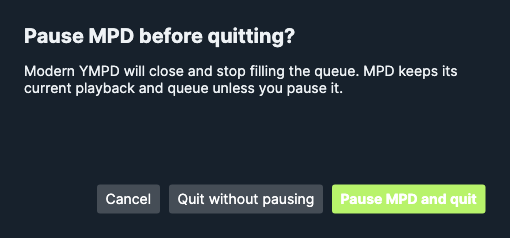
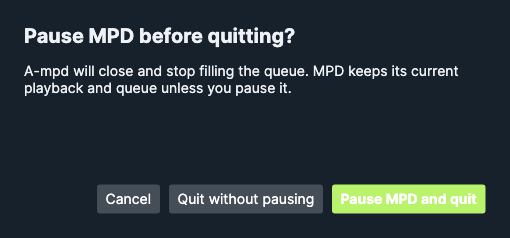
Add 200-track fill, rename app to A-mpd and unify controls

Changed region(s): [[0.0294, 0.2647, 0.9118, 0.4118]]

diff --git a/ModernYmpd/MainWindow.axaml.cs b/ModernYmpd/MainWindow.axaml.cs
@@ -77,8 +77,13 @@ public partial class MainWindow : Window, INotifyPropertyChanged
     private string bitrateText = "";
     public string BitrateText { get => bitrateText; private set { Set(ref bitrateText, value); Notify(nameof(HasBitrate)); } }
     public bool HasBitrate => !string.IsNullOrEmpty(BitrateText);
-    private string playPauseIcon = "▶";
-    public string PlayPauseIcon { get => playPauseIcon; private set => Set(ref playPauseIcon, value); }
+    private bool isPlaying;
+    public bool IsPlaying
+    {
+        get => isPlaying;
+        private set { Set(ref isPlaying, value); Notify(nameof(IsNotPlaying)); }
+    }
+    public bool IsNotPlaying => !IsPlaying;
     private string elapsedText = "0:00";
     public string ElapsedText { get => elapsedText; private set => Set(ref elapsedText, value); }
     private string durationText = "0:00";
@@ -204,21 +209,28 @@ public partial class MainWindow : Window, INotifyPropertyChanged
         var menu = new NativeMenu();
         menu.Items.Add(view);
         menu.Items.Add(playback);
-        var aboutMenu = new NativeMenuItem("About modern ympd") { Menu = new NativeMenu() };
-        var about = new NativeMenuItem("About modern ympd…");
-        about.Click += async (_, _) =>
+        var aboutMenu = new NativeMenuItem("About A-mpd") { Menu = new NativeMenu() };
+        var about = new NativeMenuItem("About A-mpd…")
         {
-            try { await new AboutDialog().ShowDialog(this); }
-            catch (Exception error)
-            {
-                CrashLog.Write(error, "About dialog");
-                Message = error.Message;
-            }
+            Gesture = new KeyGesture(Key.I, KeyModifiers.Meta)
         };
+        about.Click += async (_, _) => await ShowAboutAsync();
         aboutMenu.Menu.Items.Add(about);
         menu.Items.Add(aboutMenu);
         NativeMenu.SetMenu(this, menu);
     }
+
+    private async Task ShowAboutAsync()
+    {
+        try { await new AboutDialog().ShowDialog(this); }
+        catch (Exception error)
+        {
+            CrashLog.Write(error, "About dialog");
+            if (!isShuttingDown) Message = error.Message;
+        }
+    }
+
+    private async void About_Click(object? sender, RoutedEventArgs e) => await ShowAboutAsync();
     private void PopulateDemo()
     {
         settings.ShowFilePath = true;
@@ -233,7 +245,7 @@ public partial class MainWindow : Window, INotifyPropertyChanged
         ComposerText = "Composed by Lena Vale";
         FilePathText = "Lena Vale/Afterglow/01 Midnight Train.flac";
         BitrateText = "320 kbit/s";
-        PlayPauseIcon = "⏸";
+        IsPlaying = true;
         TrackDuration = 236;
         ElapsedSeconds = 82;
         ElapsedText = "1:22";
@@ -352,7 +364,7 @@ public partial class MainWindow : Window, INotifyPropertyChanged
             if (isShuttingDown) return;
             currentStatus = status;
             ConnectionStatus = $"Connected · {settings.Host}:{settings.Port}";
-            PlayPauseIcon = status.State == "play" ? "⏸" : "▶";
+            IsPlaying = status.State == "play";
             BitrateText = status.Bitrate > 0 && status.State != "stop" ? $"{status.Bitrate} kbit/s" : "";
             Volume = status.Volume;
             RandomInput.IsChecked = status.Random;
@@ -611,6 +623,24 @@ public partial class MainWindow : Window, INotifyPropertyChanged
         await ActAsync(() => client.ClearAsync(), "Queue cleared; library shuffle switched off");
     }
 
+    private async void Fill200_Click(object? sender, RoutedEventArgs e)
+    {
+        if (sender is not Button button || isShuttingDown) return;
+        button.IsEnabled = false;
+        Message = "Filling queue to 200 random tracks…";
+        try
+        {
+            var added = await shuffle.FillToAsync(200);
+            if (isShuttingDown) return;
+            Message = added == 0 ? "Queue already has at least 200 tracks."
+                : $"Added {added} random track{(added == 1 ? "" : "s")} to the queue.";
+            await RefreshAsync();
+        }
+        catch (OperationCanceledException) when (isShuttingDown) { }
+        catch (Exception error) { if (!isShuttingDown) Message = error.Message; }
+        finally { if (!isShuttingDown) button.IsEnabled = true; }
+    }
+
     private async void BrowseFolder_Click(object? sender, RoutedEventArgs e)
     {
         if ((sender as Button)?.DataContext is MpdEntry entry) await BrowseAsync(entry.Path);
@@ -700,5 +730,4 @@ public partial class MainWindow : Window, INotifyPropertyChanged
         try { Message = $"MPD library: {await client.GetLibraryCountAsync()} tracks"; }
         catch (Exception error) { Message = error.Message; }
     }
-    private void OpenSettings_Click(object? sender, RoutedEventArgs e) => PageInput.SelectedIndex = 3;
 }

diff --git a/ModernYmpd/ShuffleService.cs b/ModernYmpd/ShuffleService.cs
@@ -3,6 +3,7 @@ namespace ModernYmpd;
 public sealed class ShuffleService(MpdClient client, AppSettings settings) : IDisposable
 {
     private readonly CancellationTokenSource cancellation = new();
+    private readonly SemaphoreSlim fillGate = new(1, 1);
     private readonly Queue<string> recent = new();
     private Task? worker;
 
@@ -16,7 +17,8 @@ public sealed class ShuffleService(MpdClient client, AppSettings settings) : IDi
         {
             try
             {
-                if (settings.AutoFillEnabled) await FillAsync(cancellation.Token);
+                if (settings.AutoFillEnabled)
+                    await FillToAsync(settings.FillTarget, true, cancellation.Token);
             }
             catch (OperationCanceledException) when (cancellation.IsCancellationRequested) { break; }
             catch (Exception error) { StateChanged?.Invoke($"Auto fill: {error.Message}"); }
@@ -25,17 +27,23 @@ public sealed class ShuffleService(MpdClient client, AppSettings settings) : IDi
         }
     }
 
-    private async Task FillAsync(CancellationToken token)
+    public async Task<int> FillToAsync(int target, bool startPlaybackIfEmpty = false,
+        CancellationToken token = default)
+    {
+        using var linked = CancellationTokenSource.CreateLinkedTokenSource(token, cancellation.Token);
+        await fillGate.WaitAsync(linked.Token);
+        try { return await FillAsync(target, startPlaybackIfEmpty, linked.Token); }
+        finally { fillGate.Release(); }
+    }
+
+    private async Task<int> FillAsync(int target, bool startPlaybackIfEmpty, CancellationToken token)
     {
         var status = await client.GetStatusAsync(token);
-        var missing = settings.FillTarget - status.QueueLength;
-        if (missing <= 0) return;
+        var missing = target - status.QueueLength;
+        if (missing <= 0) return 0;
         var libraryCount = await client.GetLibraryCountAsync(token);
         if (libraryCount == 0)
-        {
-            StateChanged?.Invoke("MPD library is empty. Update the database in Settings.");
-            return;
-        }
+            throw new IOException("MPD library is empty. Update the database in Settings.");
         var queued = (await client.GetQueueAsync(token)).Select(song => song.File)
             .ToHashSet(StringComparer.Ordinal);
         var added = 0;
@@ -60,9 +68,11 @@ public sealed class ShuffleService(MpdClient client, AppSettings settings) : IDi
             if (recent.Count > 50) recent.Dequeue();
             added++;
         }
-        if (status.State == "stop" && status.QueueLength == 0 && added > 0)
+        if (startPlaybackIfEmpty && status.State == "stop" && status.QueueLength == 0 && added > 0)
             await client.PlayAsync(token);
-        StateChanged?.Invoke($"Added {added} random track{(added == 1 ? "" : "s")}.");
+        if (startPlaybackIfEmpty)
+            StateChanged?.Invoke($"Added {added} random track{(added == 1 ? "" : "s")}.");
+        return added;
     }
 
     public void Dispose()

diff --git a/ModernYmpd/AppSettings.cs b/ModernYmpd/AppSettings.cs
@@ -15,15 +15,19 @@ public sealed class AppSettings
 
     public static string FilePath => Path.Combine(
         Environment.GetFolderPath(Environment.SpecialFolder.ApplicationData),
+        "a-mpd", "settings.json");
+    private static string LegacyFilePath => Path.Combine(
+        Environment.GetFolderPath(Environment.SpecialFolder.ApplicationData),
         "modern-ympd", "settings.json");
 
     public static AppSettings Load()
     {
         try
         {
-            if (File.Exists(FilePath))
+            var path = File.Exists(FilePath) ? FilePath : LegacyFilePath;
+            if (File.Exists(path))
             {
-                var settings = JsonSerializer.Deserialize<AppSettings>(File.ReadAllText(FilePath));
+                var settings = JsonSerializer.Deserialize<AppSettings>(File.ReadAllText(path));
                 if (settings is not null)
                 {
                     settings.Port = Math.Clamp(settings.Port, 1, 65535);

diff --git a/ModernYmpd/MacMediaKeys.m b/ModernYmpd/MacMediaKeys.m
@@ -30,7 +30,7 @@ void ympd_media_start(YmpdMediaCommandCallback handler) {
 void ympd_media_update(const char *title, const char *artist, const char *album,
                        const char *composer, double duration, double elapsed, int state) {
     MPNowPlayingInfoCenter *center = [MPNowPlayingInfoCenter defaultCenter];
-    if (title == NULL || title[0] == '\0') title = "modern ympd";
+    if (title == NULL || title[0] == '\0') title = "A-mpd";
 
     NSMutableDictionary *info = [NSMutableDictionary dictionary];
     info[MPMediaItemPropertyTitle] = [NSString stringWithUTF8String:title];

diff --git a/ModernYmpd/MacMediaKeys.cs b/ModernYmpd/MacMediaKeys.cs
@@ -42,7 +42,7 @@ internal sealed class MacMediaKeys : IDisposable
             ympd_media_start(NativeCallback);
             // Publish an idle player immediately so Play can reach MPD before
             // the first track has ever been started in this app session.
-            ympd_media_update("modern ympd", "MPD", null, null, 0, 0, 2);
+            ympd_media_update("A-mpd", "MPD", null, null, 0, 0, 2);
             return instance;
         }
         catch (Exception error)

diff --git a/README.md b/README.md
@@ -1,7 +1,8 @@
-# avalonia-ympd
+# A-mpd
 
 An independent Avalonia desktop client for MPD. It connects directly to MPD;
-the ympd web service is not required.
+the ympd web service is not required. It evolved from the ympd web player and
+the idea of combining its controls with ashuffle-style queue filling.
 
 ## Features
 
@@ -15,16 +16,21 @@ the ympd web service is not required.
 - Composer, bitrate, and optional MPD file path in Now Playing
 - Add a search or library result next, add it to the end, or play it immediately
 - Keep the queue filled to a chosen size with random library songs
+- Fill the queue once to 200 random library tracks with the sidebar button
 - Closing the main window quits the app and stops automatic queue filling;
   Settings can enable an optional prompt to pause MPD before quitting
 - On macOS, use the system menu bar's **View** menu for Queue, Library,
-  Search, and Settings, and **Playback** for playback controls
+  Search, and Settings, and **Playback** for playback controls. The About
+  dialog opens in one click from the information button in the window header
+  or with Command-I.
 
 The random filler uses MPD's `searchcount` and `search ... window` commands. It
 chooses random library positions, then avoids songs already queued and the last
 50 selections when possible. It has no separate music database or library cache.
 It checks the queue every five seconds while the app is running. When it fills
 an empty, stopped queue, it starts playback.
+The 200-track button is a one-time fill and does not change the target in
+Settings or start playback by itself.
 The pause-on-exit prompt is off by default. Quitting leaves MPD's playback and
 queue untouched unless you choose to pause in that prompt.
 
@@ -32,7 +38,7 @@ queue untouched unless you choose to pause in that prompt.
 
 Get the [latest release](https://github.com/LordMyschkin/avalonia-ympd/releases/latest):
 
-- **macOS Apple Silicon:** download the DMG and drag `Avalonia YMPD.app` to Applications.
+- **macOS Apple Silicon:** download the DMG and drag `A-mpd.app` to Applications.
 - **Windows x64:** download and run the single-file EXE.
 
 Both downloads include the .NET runtime. The macOS app is ad hoc signed; the
@@ -66,7 +72,7 @@ These images use a sample library with invented song metadata.
 
 ### About
 
-![About modern ympd](docs/screenshots/about.png)
+![About A-mpd](docs/screenshots/about.png)
 
 ### Optional exit prompt
 
@@ -85,7 +91,7 @@ On macOS, build a self-contained `.app` bundle with:
 
 ```sh
 ./build-macos-app.sh
-open "dist/Avalonia YMPD.app"
+open "dist/A-mpd.app"
 ```
 
 The macOS media-key bridge is compiled into this `.app` by the build script.
@@ -94,7 +100,7 @@ The plain `dotnet run` command does not include that native bridge.
 On macOS, `./build-macos-dmg.sh` packages this app in a DMG.
 
 To cross-build the self-contained Windows x64 EXE from macOS or Linux, run
-`./build-windows-exe.sh`. The result is `dist/Avalonia-YMPD-win-x64.exe`.
+`./build-windows-exe.sh`. The result is `dist/A-mpd-win-x64.exe`.
 
 To regenerate the sample screenshots, run
 `dotnet run --project ModernYmpd/ModernYmpd.csproj -- --render-screenshots docs/screenshots`.
